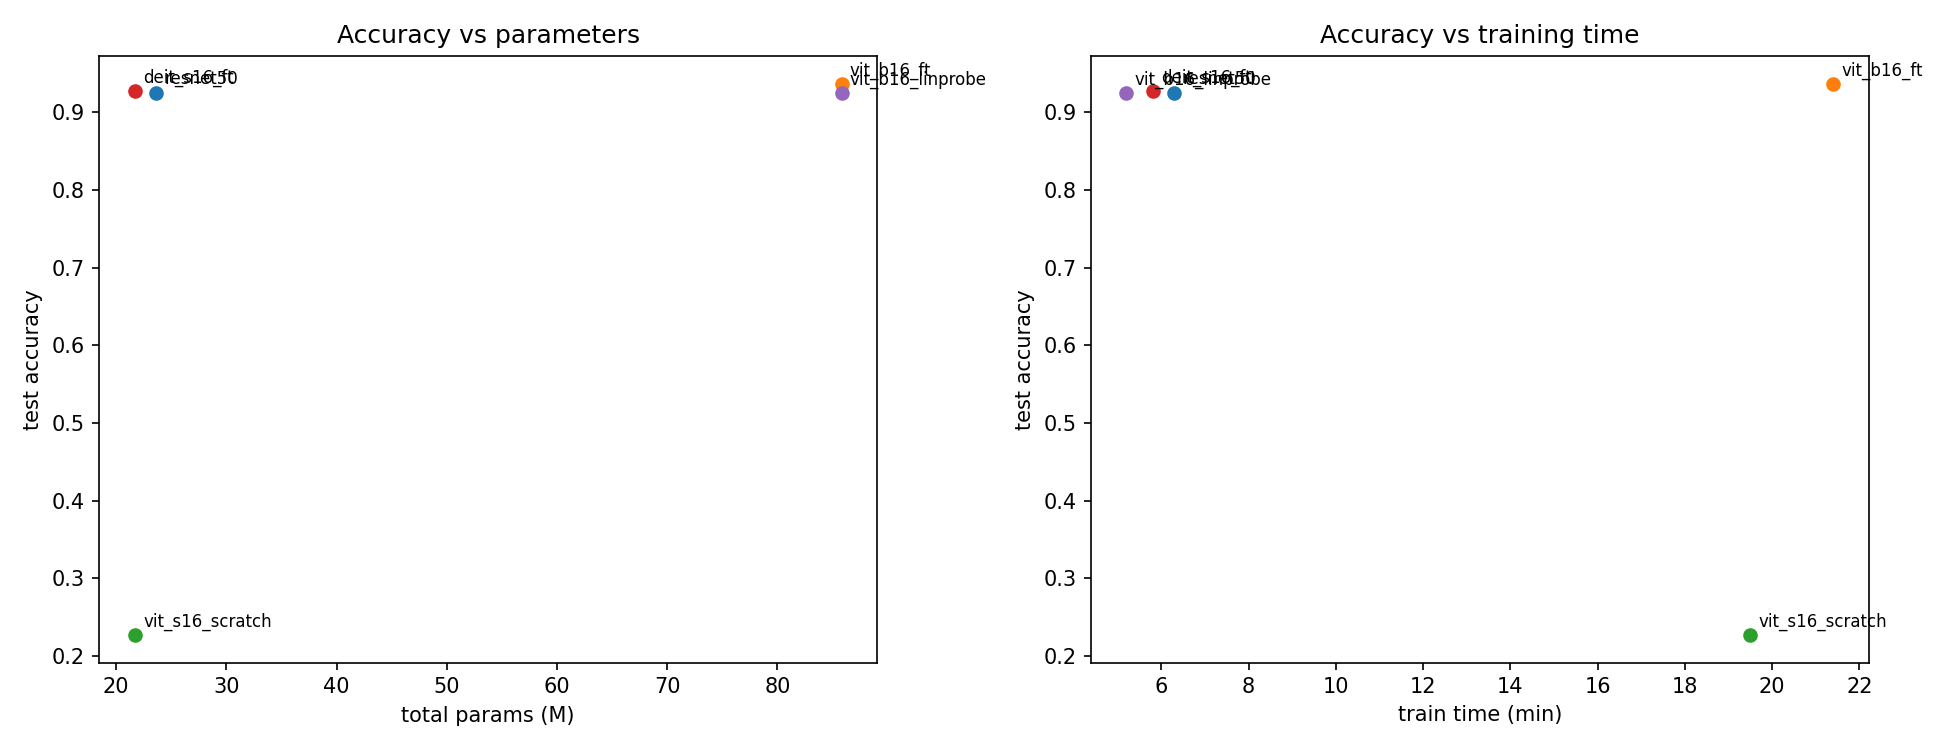
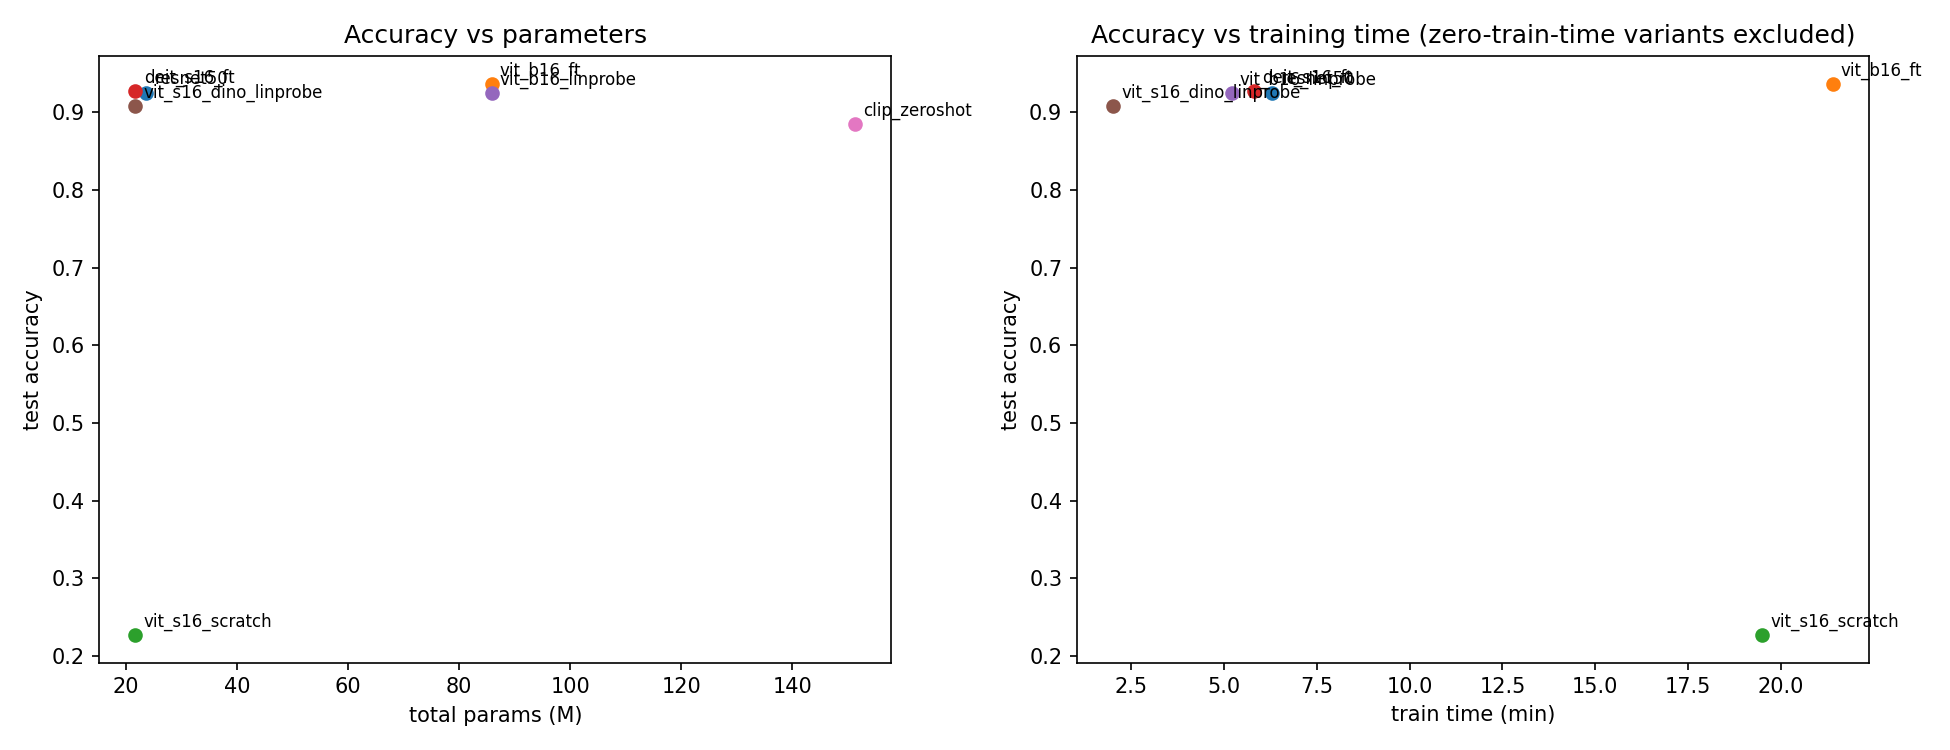
feat: close per-variant gaps for DINO and CLIP + multi-method figure

diff --git a/viz/compare_figures.py b/viz/compare_figures.py
@@ -80,6 +80,68 @@ def build_comparison_figure(cnn_run: str, vit_run: str, n_images: int = 6,
     return out_path
 
 
+def build_multi_method_figure(
+    cnn_run: str,
+    vit_runs: list,
+    n_images: int = 6,
+    out_path: str = "report/figures/multi_method_comparison.png",
+) -> str:
+    """Render rows of [original | CNN Grad-CAM | ViT rollout per vit_run].
+
+    Layout: n_images rows × (2 + len(vit_runs)) columns.
+    Column 0 = original, column 1 = CNN Grad-CAM,
+    columns 2..N = attention rollout for each ViT run in order.
+    """
+    device = get_device()
+    cnn_cfg, cnn = _load_variant(cnn_run, device)
+    vit_models = []
+    vit_grid_sizes = []
+    for vr in vit_runs:
+        vcfg, vmodel = _load_variant(vr, device)
+        vit_models.append(vmodel)
+        # grid_size = sqrt(n_patch_tokens); ViT-B/16 and DINO ViT-S/16 both use 14
+        patch_size = getattr(vcfg, "patch_size", 16)
+        grid_size = 224 // patch_size
+        vit_grid_sizes.append(grid_size)
+
+    set_seed(cnn_cfg.seed)
+    loaders = get_dataloaders(cnn_cfg)
+    images, _ = next(iter(loaders["test"]))
+    images = images[:n_images]
+
+    gradcam = GradCAM(cnn, target_layer=cnn.layer4[-1])
+
+    vit_run_labels = [Path(vr).name for vr in vit_runs]
+    cols = ["original", "ResNet Grad-CAM"] + vit_run_labels
+    n_cols = len(cols)
+
+    fig, axes = plt.subplots(n_images, n_cols, figsize=(3 * n_cols, 3 * n_images))
+
+    for row in range(n_images):
+        img = images[row:row + 1].to(device)
+        cam = gradcam(img.clone())
+
+        axes[row, 0].imshow(denormalize(images[row]).permute(1, 2, 0))
+        axes[row, 1].imshow(overlay_heatmap(images[row], cam))
+
+        for col_idx, (vmodel, gs) in enumerate(zip(vit_models, vit_grid_sizes)):
+            att = rollout_heatmap_for_image(vmodel, img.clone(), grid_size=gs)
+            att = F.interpolate(att[None, None], size=(224, 224),
+                                mode="bilinear", align_corners=False)[0, 0]
+            axes[row, 2 + col_idx].imshow(overlay_heatmap(images[row], att))
+
+        for col in range(n_cols):
+            axes[row, col].axis("off")
+            if row == 0:
+                axes[row, col].set_title(cols[col], fontsize=9)
+
+    fig.tight_layout()
+    Path(out_path).parent.mkdir(parents=True, exist_ok=True)
+    fig.savefig(out_path, dpi=150)
+    plt.close(fig)
+    return out_path
+
+
 def main() -> None:
     parser = argparse.ArgumentParser()
     parser.add_argument("--cnn-run", default="experiments/resnet50")

diff --git a/src/clip_zeroshot.py b/src/clip_zeroshot.py
@@ -3,7 +3,12 @@ import argparse
 import json
 from pathlib import Path
 
+import matplotlib
+matplotlib.use("Agg")
+import matplotlib.pyplot as plt
 import torch
+from sklearn.metrics import (ConfusionMatrixDisplay, confusion_matrix,
+                             precision_recall_fscore_support)
 from tqdm import tqdm
 
 from src.utils import get_device, get_logger, set_seed
@@ -74,25 +79,44 @@ def zero_shot_evaluate(model_name="ViT-B-32-quickgelu", pretrained="openai",
     text_features = _build_text_features(model, tokenizer, class_names,
                                          templates, device)
 
-    correct = total = 0
+    y_true, y_pred = [], []
     for images, targets in tqdm(test_loader, desc="clip zero-shot"):
         images = images.to(device)
         image_features = model.encode_image(images)
         image_features = image_features / image_features.norm(dim=-1, keepdim=True)
         logits = 100.0 * image_features @ text_features.T
         preds = logits.argmax(1).cpu()
-        correct += (preds == targets).sum().item()
-        total += targets.numel()
+        y_pred.extend(preds.tolist())
+        y_true.extend(targets.tolist())
 
+    correct = sum(int(a == b) for a, b in zip(y_true, y_pred))
+    total = len(y_true)
     accuracy = correct / total
+    precision, recall, f1, _ = precision_recall_fscore_support(
+        y_true, y_pred, average="macro", zero_division=0)
+
     out = Path(out_dir)
     out.mkdir(parents=True, exist_ok=True)
+
+    # Confusion matrix figure
+    cm = confusion_matrix(y_true, y_pred)
+    fig, ax = plt.subplots(figsize=(14, 14))
+    ConfusionMatrixDisplay(cm, display_labels=class_names).plot(
+        ax=ax, xticks_rotation="vertical", colorbar=False)
+    ax.set_title("CLIP zero-shot — Confusion matrix")
+    fig.tight_layout()
+    fig.savefig(out / "confusion_matrix.png", dpi=150)
+    plt.close(fig)
+
     metrics = {"accuracy": accuracy, "n_test": total, "model": model_name,
                "pretrained": pretrained, "n_templates": len(templates),
-               "preprocess": "clip"}
+               "preprocess": "clip",
+               "macro_precision": float(precision),
+               "macro_recall": float(recall),
+               "macro_f1": float(f1)}
     (out / "test_metrics.json").write_text(json.dumps(metrics, indent=2))
-    logger.info("clip zero-shot test_acc=%.4f templates=%d n_test=%d",
-                accuracy, len(templates), total)
+    logger.info("clip zero-shot test_acc=%.4f macro_f1=%.4f templates=%d n_test=%d",
+                accuracy, f1, len(templates), total)
     return metrics
 
 

diff --git a/tests/test_compare_figures.py b/tests/test_compare_figures.py
@@ -1,3 +1,4 @@
+import pytest
 import torch
 
 from viz.compare_figures import denormalize, overlay_heatmap
@@ -18,3 +19,20 @@ def test_overlay_heatmap_returns_rgb_image():
     heat = torch.rand(224, 224)
     blended = overlay_heatmap(image, heat)
     assert blended.shape == (224, 224, 3)
+
+
[email redacted]
+def test_build_multi_method_figure_produces_file(tmp_path):
+    """Integration test: requires real checkpoints in experiments/."""
+    from viz.compare_figures import build_multi_method_figure
+    out = tmp_path / "multi_method_comparison.png"
+    result = build_multi_method_figure(
+        cnn_run="experiments/resnet50",
+        vit_runs=["experiments/vit_b16_ft", "experiments/vit_b16_linprobe",
+                  "experiments/vit_s16_dino_linprobe"],
+        n_images=2,
+        out_path=str(out),
+    )
+    assert out.exists()
+    assert out.stat().st_size > 0
+    assert result == str(out)

diff --git a/README.md b/README.md
@@ -125,9 +125,9 @@ DINO ImageNet-pretrained ViT-S/16 features, classified with a 14 k-parameter lin
 
 ### CLIP zero-shot
 
-| Model | Pretraining | Templates | Test acc | n_test |
-|---|---|---|---|---|
-| CLIP ViT-B/32-QuickGELU (OpenAI) | image-text contrastive | 4 (ensembled) | **0.8842** | 3,669 |
+| Model | Pretraining | Templates | Test acc | Macro F1 | n_test |
+|---|---|---|---|---|---|
+| CLIP ViT-B/32-QuickGELU (OpenAI) | image-text contrastive | 4 (ensembled) | **0.8842** | 0.8813 | 3,669 |
 
 CLIP reaches 88.4% accuracy on 37 fine-grained pet breeds **without seeing a single Pets training image**. The canonical OpenAI weights use a QuickGELU activation (ViT-B-32-quickgelu); switching from the default GELU checkpoint to QuickGELU accounts for a +4.94 pp improvement. Prompt ensembling alone — averaging four templates — closes much of the gap to supervised training. Vision-language pretraining is a strong fine-grained classification baseline whenever class names are descriptive.
 
@@ -192,7 +192,13 @@ The five most-confused breed pairs in the ViT-B FT confusion matrix (e.g. Americ
 
 ![Accuracy vs params and training time](report/figures/accuracy_vs_params.png)
 
-Scatter of test accuracy against total parameters (left) and training time (right) for the five baseline variants. DeiT-S/16 FT is the Pareto-best on both axes among full fine-tunes; the linear probe is the Pareto-best on training time at no meaningful accuracy loss.
+Scatter of test accuracy against total parameters (left, all 7 variants including CLIP) and training time (right, training-only variants — CLIP excluded to avoid zero-distortion). DeiT-S/16 FT is the Pareto-best on both axes among full fine-tunes; the linear probe is the Pareto-best on training time at no meaningful accuracy loss.
+
+### Multi-method saliency comparison
+
+![Multi-method saliency comparison](report/figures/multi_method_comparison.png)
+
+For 6 test images, side by side: **original | ResNet-50 Grad-CAM | ViT-B/16 fine-tune rollout | ViT-B/16 linear probe rollout | DINO ViT-S/16 rollout**. Grad-CAM maps are consistently tighter and more object-centered; ViT rollout maps are more diffuse. Among ViTs, DINO attention is the most foreground-aligned — consistent with the quantitative Pointing Game results.
 
 ---
 

diff --git a/experiments/RUNS.md b/experiments/RUNS.md
@@ -35,7 +35,7 @@ Per-row notes:
 | Variant / Analysis | Backbone | Protocol | Test acc | Macro F1 | Trainable | Train time | Notes |
 |---|---|---|---|---|---|---|---|
 | `vit_s16_dino_linprobe` | ViT-S/16 | DINO self-sup pretraining → linear probe | **0.9081** | 0.9076 | 0.014 M | 117 s | Best val acc 0.9375 at epoch 9; 17 epochs run before early stop |
-| `clip_zeroshot` | CLIP ViT-B/32 | zero-shot inference (no training) | **0.8842** | — | 0 | inference only | 4-template prompt ensemble; CLIP's own preprocessing; `n_test=3669`; ViT-B-32-quickgelu weights to match OpenAI's QuickGELU activation (+4.94 pp vs non-QuickGELU checkpoint) |
+| `clip_zeroshot` | CLIP ViT-B/32 | zero-shot inference (no training) | **0.8842** | 0.8813 | 0 | inference only | 4-template prompt ensemble; CLIP's own preprocessing; `n_test=3669`; ViT-B-32-quickgelu weights to match OpenAI's QuickGELU activation (+4.94 pp vs non-QuickGELU checkpoint) |
 
 CLIP templates (averaged in text-embedding space): `"a photo of a {}, a type of pet."`, `"a photo of a {}."`, `"a picture of a {} pet."`, `"an image of a {} cat or dog."`.
 
@@ -82,7 +82,7 @@ Raw per-run CSV: `experiments_data_eff/results.csv`.
 
 ---
 
-## 5. Visualization runs (4)
+## 5. Visualization runs (5)
 
 | Figure | Source | Notes |
 |---|---|---|
@@ -90,6 +90,7 @@ Raw per-run CSV: `experiments_data_eff/results.csv`.
 | `report/figures/tsne_embeddings.png` | `viz/embeddings.py` | 4 variants (`resnet50`, `vit_b16_ft`, `vit_s16_scratch`, `vit_s16_dino_linprobe`), colored by class |
 | `report/figures/failure_cases.png` | `viz/failures.py` | Top-5 most-confused breed pairs in ViT-B FT confusion matrix |
 | `report/figures/saliency_metrics.png` | `viz/saliency_metrics_plot.py` | Bar chart of 4 metrics × 6 variants (scratch now included) |
+| `report/figures/multi_method_comparison.png` | `viz/compare_figures.build_multi_method_figure` | 6 images × 5 columns: original \| ResNet Grad-CAM \| ViT-B FT rollout \| ViT-B linprobe rollout \| DINO rollout |
 
 ---
 